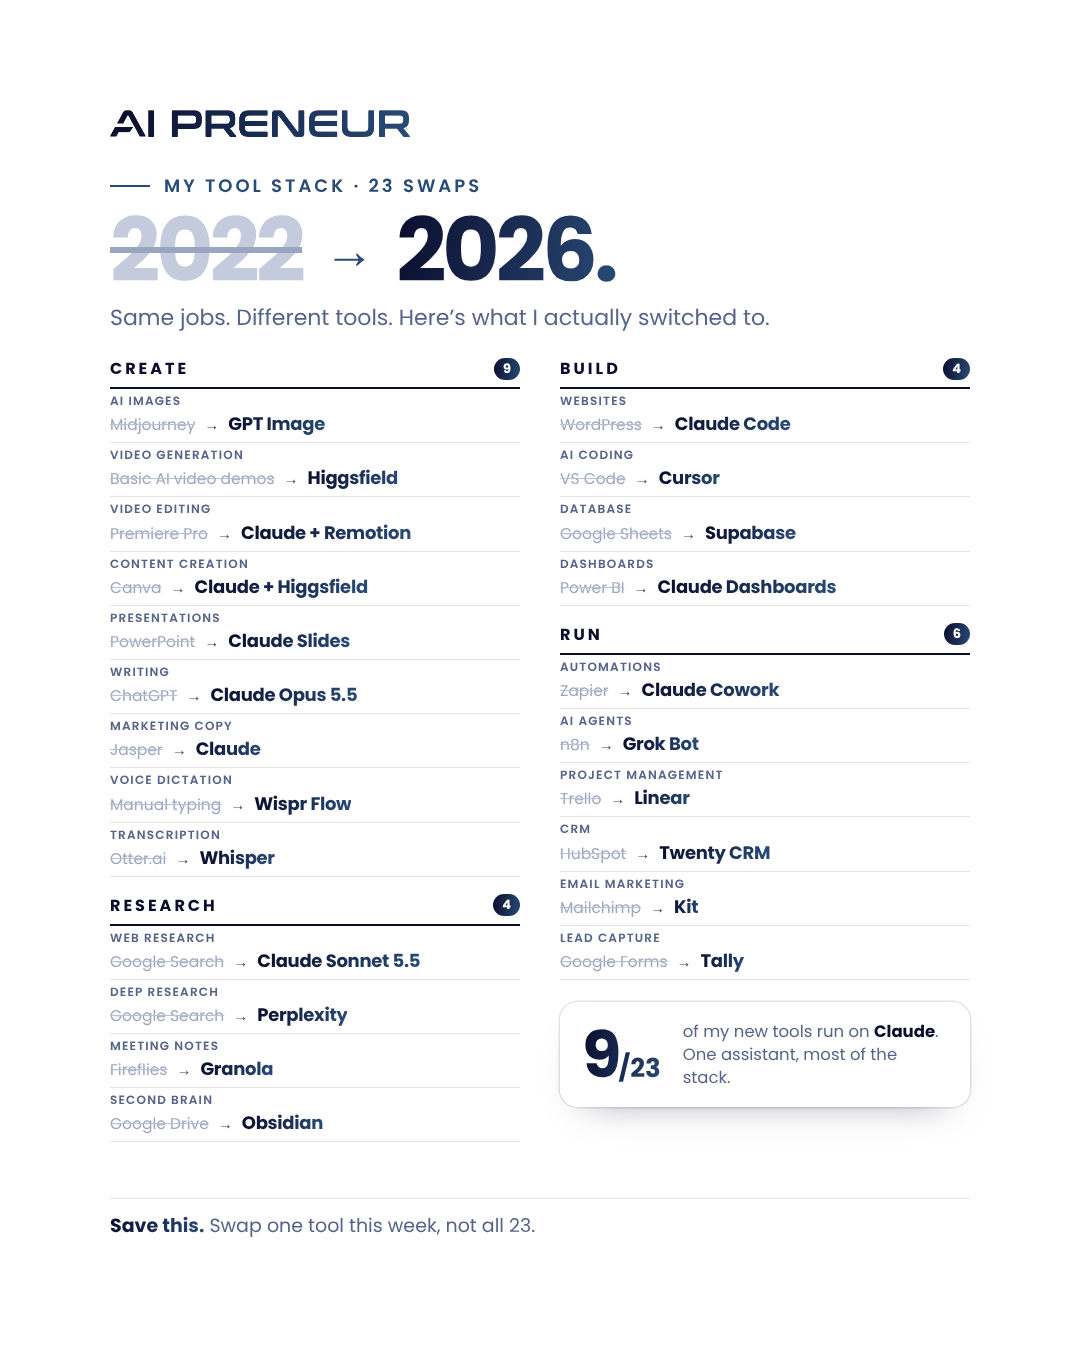
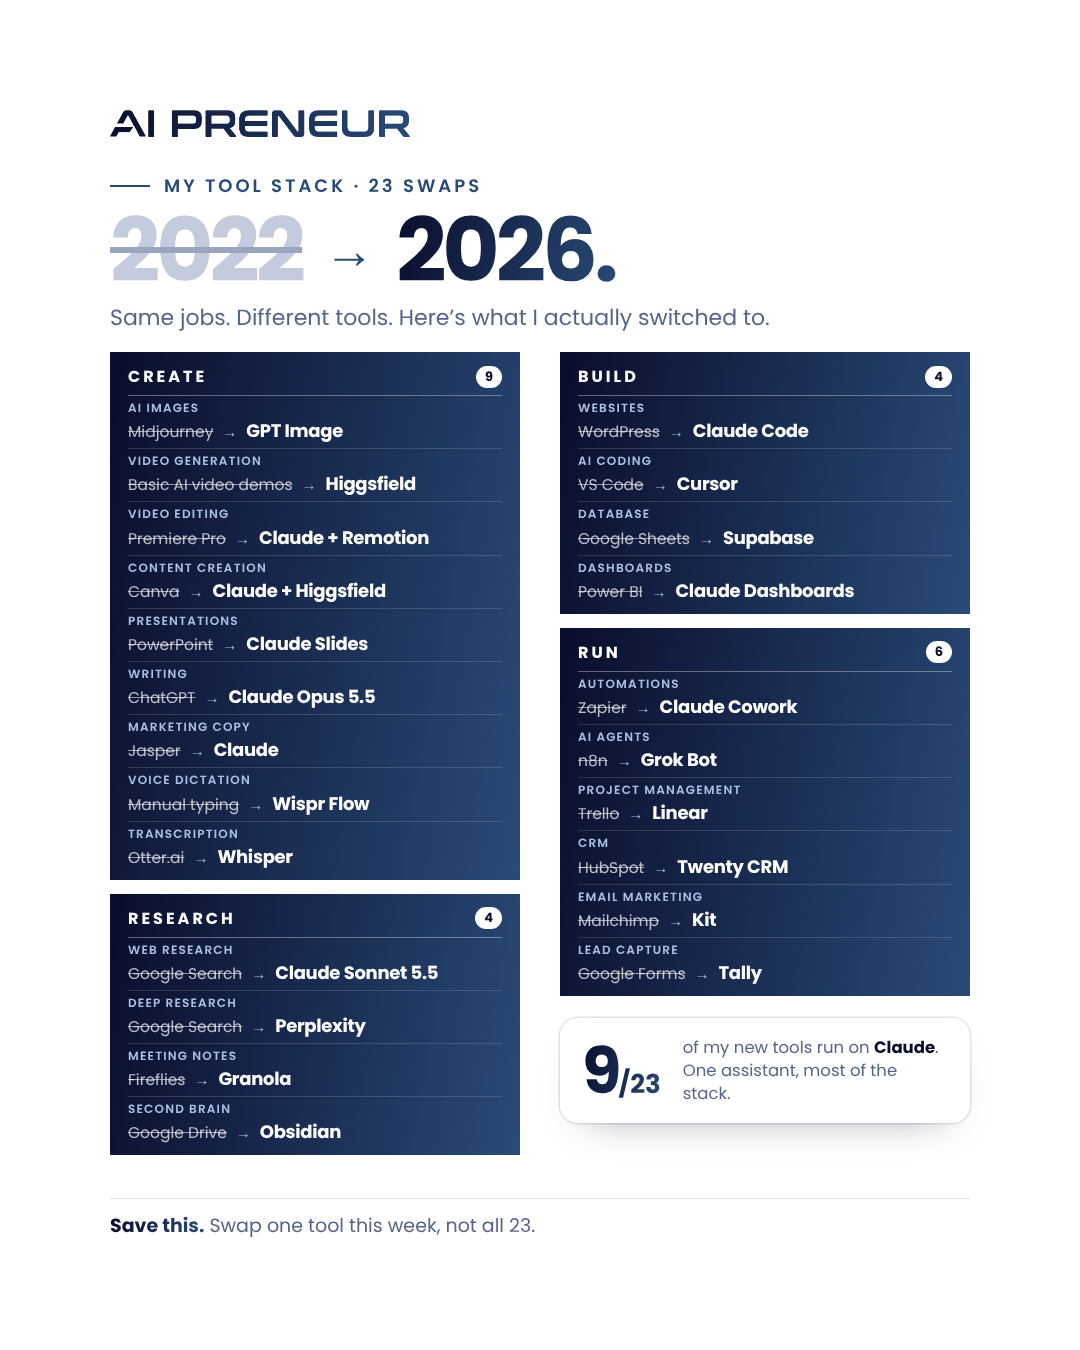
Tool stack post: navy gradient panels with white text
Claude-Session: https://claude.ai/code/session_01FYKeHLx1qY2bAhSHR89JeA

diff --git a/projects/tool-stack-2022-vs-2026/style.css b/projects/tool-stack-2022-vs-2026/style.css
@@ -43,3 +43,16 @@ h1{font-size:88px;margin-top:8px}h1 i{font-size:50px}
 .stat b span{font-size:26px;letter-spacing:0}
 .stat p{font-size:16.5px;line-height:1.4;color:var(--dim)}.stat strong{color:var(--a)}
 .slide{background:#fff}
+/* navy gradient panels, white text */
+.grp{background:linear-gradient(100deg,#0a0d2c 0%,#294b77 100%);padding:12px 18px 6px}
+.grp+.grp{margin-top:14px}
+.grp h3{border-bottom:1.5px solid rgba(255,255,255,.35)}
+.grp h3 span{color:#fff}
+.grp h3 em{background:#fff;color:#0a0d2c}
+.grp li{border-bottom:1px solid rgba(255,255,255,.14);padding:4px 0 4px}
+.grp li:last-child{border-bottom:0}
+.grp small{color:#a9bfe3}
+.grp s{color:rgba(255,255,255,.72);text-decoration-color:rgba(255,255,255,.55)}
+.grp i{color:#a9bfe3}
+.grp b.g{background:none;-webkit-background-clip:border-box;background-clip:border-box;color:#fff}
+.cols{margin-top:18px}
